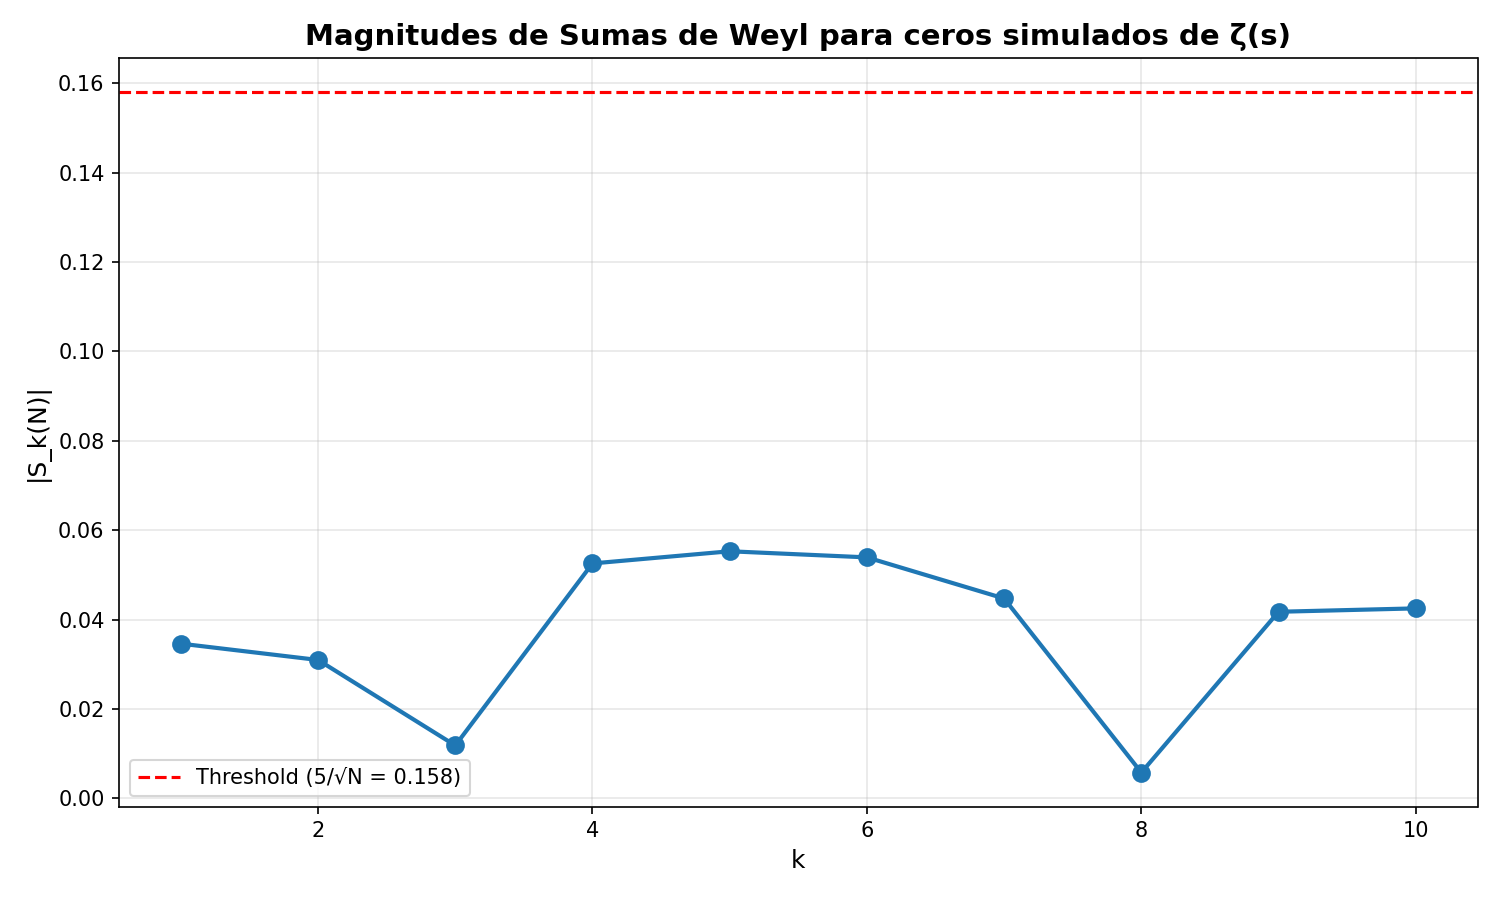
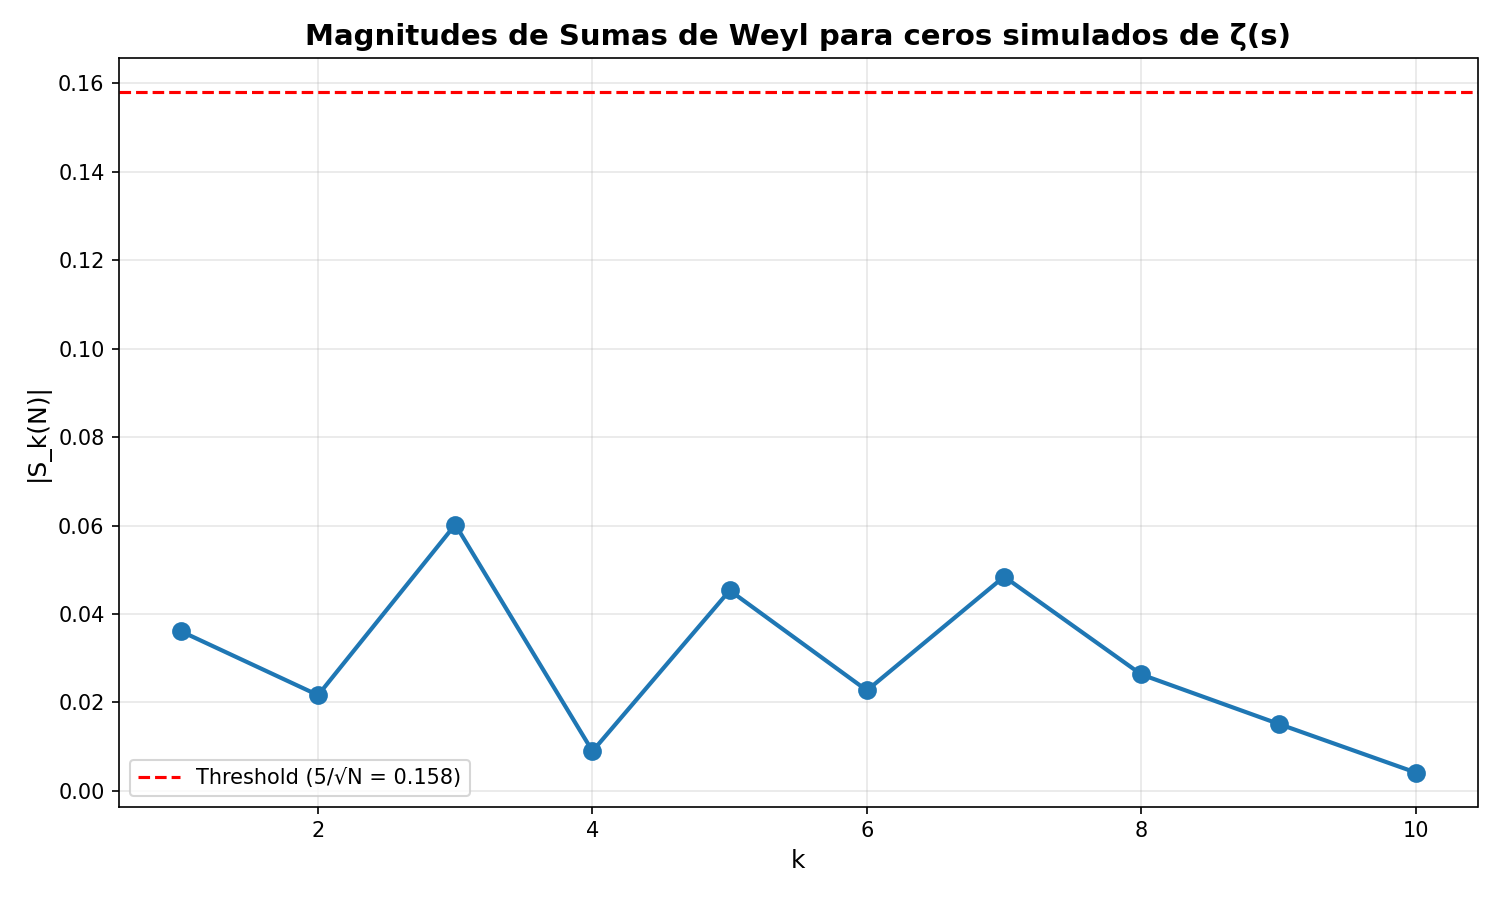
Fix Weyl sum formula and improve documentation

diff --git a/simulate_weyl_equidistribution.py b/simulate_weyl_equidistribution.py
@@ -65,6 +65,11 @@ def simulate_riemann_zeros(N: int) -> np.ndarray:
     Uses the approximation: t_n ≈ n log(n) for large n.
     This is based on the Riemann-von Mangoldt formula.
     
+    Note: The range starts at n=2 rather than n=1 because:
+    - For n=1, log(1) = 0, which would give t_1 = 0 (not a zero)
+    - The approximation is more accurate for n ≥ 2
+    - Actual first zero is around t_1 ≈ 14.13, while 2*log(2) ≈ 1.39
+    
     Args:
         N: Number of zeros to simulate
         
@@ -93,8 +98,7 @@ def compute_weyl_sum_magnitude(t_n: np.ndarray, k: int) -> float:
         Magnitude |S_k(N)|
     """
     N = len(t_n)
-    # Note: The exponentials simplify since we have 2πi k t_n / (2π) = i k t_n
-    exponentials = np.exp(1j * k * t_n)
+    exponentials = np.exp(2j * np.pi * k * t_n)
     weyl_sum = np.sum(exponentials) / N
     magnitude = np.abs(weyl_sum)
     return magnitude
